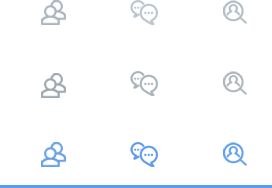
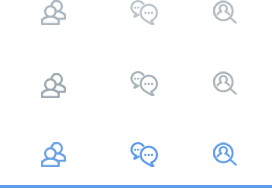
친구 추가 기능 완성

Changed region(s): [[0.7647, 0.7447, 0.9118, 0.8777], [0.7647, 0.3723, 0.9118, 0.5053], [0.7647, 0.0, 0.9118, 0.133]]

diff --git a/src/main/webapp/resources/js/chatSetting-controller.js b/src/main/webapp/resources/js/chatSetting-controller.js
@@ -17,9 +17,12 @@ $(function(){
 		$('#searchlist').fadeOut();
 	});
 	
+	
+	
 });
 
 function chatSetting(myUserID){
+
 	console.log("전반적인 챗 세팅을 시작합니다.");
 	var chatList;
 	console.log("[1] 나의 전체 대화내역을 가져옵니다.")
@@ -39,6 +42,33 @@ function chatSetting(myUserID){
 			getFriends(myUserID,chatList);
 			console.log("[3]"+lastChatID+"를 기준으로 새로운 메세지가 오면 갱신합니다.");
 			getChat(myUserID,lastChatID,chatList);
+			
+			//3번째 탭 검색 이벤트 등록
+			$("#user-searchfield").on("keyup",function(event){
+				var keycode = (event.keyCode ? event.keyCode : event.which);
+				var searchStr = $("#user-searchfield").val();
+				if(keycode == '13'){
+					$.ajax({
+						url : "searchUser",
+						type : "POST",
+						data : {
+							userID : searchStr,
+							myCno : myUserID
+						},
+						success : function(data) {
+							if (data == "") {
+								notFoundedUser();
+								return
+							}
+							var parsed = JSON.parse(data);
+							console.log(parsed.status);
+							addSearchUser(parsed.user.cno,parsed.user.cname,parsed.user.email,parsed.user.status,parsed.status);
+							addGoChatView(myUserID,chatList);
+						}
+					});
+				}
+			});
+			//
 		}
 	});
 }
@@ -116,8 +146,15 @@ function addGoChatView(myUserID,chatList){
 			$("#profile p").html(name);
 			$("#profile span").html(email);
 			$("#toChatID").val(toChatID);
-			$("#profile>#star>.fa").removeClass("fa-star-o");
-			$("#profile>#star>.fa").addClass("fa-star");
+			var friendStatus =$(this).find(".friend-status").val();
+			console.log(friendStatus);
+			if(friendStatus == '1'){
+				$("#profile>#star>.fa").removeClass("fa-star-o");
+				$("#profile>#star>.fa").addClass("fa-star");
+			}else{
+				$("#profile>#star>.fa").removeClass("fa-star");
+				$("#profile>#star>.fa").addClass("fa-star-o");
+			}
 			
 			$(".message").not(".right").find("img").attr("src", $(clone).attr("src"));									
 			$('#friendslist').fadeOut();
@@ -175,6 +212,7 @@ function addFriendList(cno,cname,email,status){
 			"<input class='userCno' type='hidden' value='"+
 			cno+
 			"'>"+
+			"<input class='friend-status' type='hidden' value='1'>"+
 			"<div class='status "+
 			statusClass+"'>"+
 			"</div>");
@@ -273,4 +311,42 @@ function getChat(myUserID,lastChatID,chatList){
 	        },
 	        timeout: 30000,
 	    })
+}
+
+function addSearchUser(cno,cname,email,status,friendStatus){
+	var statusClass = 'inactive';
+	if(status == 1){
+		statusClass = 'available';
+	}
+	
+	var friendStatusValue = "0";
+	if(friendStatus == "true"){
+		friendStatusValue = "1";
+	}
+	
+	$("#searchs").empty();
+	$("#searchs").append($("<div class='friend'>" +
+			"<img src='https://s3-us-west-2.amazonaws.com/s.cdpn.io/245657/1_copy.jpg' />" +
+			"<p>" +
+			"<strong>" +
+			cname +
+			"</strong><br>" +
+			"<span>"+
+			email+
+			"</span></p>"+
+			"<input class='userCno' type='hidden' value='"+
+			cno+
+			"'>"+
+			"<input class='friend-status' type='hidden' value='"+
+			friendStatusValue+
+			"'>"+
+			"<div class='status "+
+			statusClass+
+			"'>"+
+			"</div>").hide().fadeIn(180));
+}
+
+function notFoundedUser(){
+	$("#searchs").empty();
+	$("#searchs").append($("<div class='notfound'>검색된 유저가 없습니다.</div>)").hide().fadeIn(180));
 }

diff --git a/src/main/webapp/resources/css/chat-style.css b/src/main/webapp/resources/css/chat-style.css
@@ -106,19 +106,33 @@ body {
 }
 
 #topmenu span.search {
-	background-position: -185px 24px;
+	background-position: -176px 24px;
 	cursor: pointer;
 }
 
 #topmenu span.search:hover {
-	background-position: -185px -47px;
+	background-position: -176px -47px;
 	cursor: pointer;
 }
 
+/* search 탭일때 */
 #searchlist span.search{
-	background-position: -185px -58px;
+	background-position: -176px -118px;
 	cursor: pointer;
 }
+#searchlist span.search:hover{
+	background-position: -176px -118px;
+	cursor: pointer;
+}
+#searchlist span.friends{
+	background-position: -3px -49px;
+	cursor: pointer;
+}
+#searchlist span.friends:hover{
+	background-position: -3px 24px;
+	cursor: pointer;
+}
+
 
 
 .friend {
@@ -209,6 +223,16 @@ body {
 	bottom: 0;
 	left: 0;
 }
+#user-search {
+	background: #e3e9ed
+		url("https://s3-us-west-2.amazonaws.com/s.cdpn.io/245657/search.png")
+		-11px 0 no-repeat;
+	height: 60px;
+	width: 290px;
+	position: absolute;
+	bottom: 0;
+	left: 0;
+}
 
 #searchfield {
 	background: #e3e9ed;
@@ -220,11 +244,29 @@ body {
 	font-weight: 400px;
 	color: #8198ac;
 }
+#user-searchfield {
+	background: #e3e9ed;
+	width:210px;
+	margin: 21px 0 0 55px;
+	border: none;
+	padding: 0;
+	font-size: 14px;
+	font-weight: 400px;
+	color: #8198ac;
+}
+
+.notfound{
+	text-align: center;
+	margin: 150px 50px;
+	color : #999;
+}
 
 #searchfield:focus {
 	outline: 0;
 }
-
+#user-searchfield:focus {
+	outline: 0;
+}
 #chatview {
 	width: 290px;
 	height: 484px;

diff --git a/src/main/java/com/upcoding/dao/ChatDAOImp.java b/src/main/java/com/upcoding/dao/ChatDAOImp.java
@@ -66,4 +66,18 @@ public class ChatDAOImp implements ChatDAO {
 		return sqlsession.selectList(namespace+".getChat",map);
 	}
 
+	@Override
+	public UserVO searchUser(String userID) {
+		return sqlsession.selectOne(namespace+".searchUser",userID);
+	}
+
+	@Override
+	public String searchFriend(String myCno, String searchCno) {
+			HashMap<String, String> map = new HashMap<String,String>();
+			map.put("myCno", myCno);
+			map.put("searchCno", searchCno);
+			
+		return sqlsession.selectOne(namespace+".searchFriend",map);
+	}
+
 }

diff --git a/src/main/java/com/upcoding/service/ChatService.java b/src/main/java/com/upcoding/service/ChatService.java
@@ -36,9 +36,17 @@ public class ChatService {
 
 	public int sendChatService(String fromID, String toID, String chatContent) {
 		return dao.sendChat(fromID, toID, chatContent);
-	}
+	} 
 	
 	public List<ChatVO> getChatService(String fromID, String lastChatID) {
 		return dao.getChat(fromID, lastChatID);
+	}
+	
+	public UserVO searchUserService(String userID) {
+		return dao.searchUser(userID);
+	}
+	
+	public String searchFriendService(String myCno,String searchCno) {
+		return dao.searchFriend(myCno, searchCno);
 	}
 }

diff --git a/src/main/java/com/upcoding/dao/ChatDAO.java b/src/main/java/com/upcoding/dao/ChatDAO.java
@@ -15,4 +15,6 @@ public interface ChatDAO {
 	public List<ChatVO> getMyAllChat(String fromID);
 	public int sendChat(String fromID,String toID, String chatContent);
 	public List<ChatVO> getChat(String fromID, String lastChatID);
+	public UserVO searchUser(String userID);
+	public String searchFriend(String myCno,String searchCno);
 }
